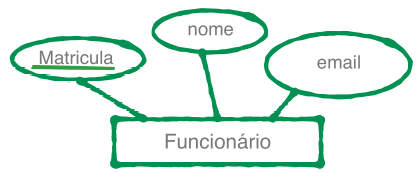
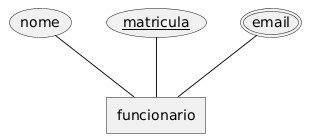
feat: change images

diff --git a/banco-de-dados/anotacoes/02-modelo-entidade-relacionamento.md b/banco-de-dados/anotacoes/02-modelo-entidade-relacionamento.md
@@ -4,26 +4,20 @@
 - Está centrado na **percepção dos usuários** sobre os dados, não
   importando a maneira na qual os dados serão **armazenados**.
 
-![exemplo-mer](img/02-modelo-entidade-relacionamento/exemplo-mer.png)
-
-![exemplo-modelagem](img/02-modelo-entidade-relacionamento/exemplo-modelagem.png)
-
 ## Entidade
+
 - É um **elemento** do mundo real com uma existência própria.
-
+- **Exemplo:** Pessoas, Carros, Casa, ...
 - Cada entidade possui propriedades que a descrevem, chamadas de **atributos**.
-
-Exemplo: Funcionários de uma empresa
-
-```
+- Exemplo: Funcionários da Empresa
+```txt
 Nome = João
 Endereço = Rua A, Casa 123
 Idade = 26
-Telefone = 11 91111-1111
+Fone = 222-2222
 ```
 
 ### Atributos
-
 - **Simples:** Trata-se de um atributo que **não** é divisível.
   - Data de nascimento;
   - CPF;
@@ -31,8 +25,6 @@ Telefone = 11 91111-1111
 - **Composto:** Consiste em vários atributos básicos.
   - Endereço;
   - Logradouro;
-
-![atributo-composto](img/02-modelo-entidade-relacionamento/atributo-composto.png)
 
 ![atributo-simples-composto](img/02-modelo-entidade-relacionamento/atributo-simples-composto.png)
 
@@ -49,14 +41,11 @@ Telefone = 11 91111-1111
   - **Não** é armazenado no SGBD.
 
 - **Valores NULL:** Valor vazio para um atributo.
-  - Ex: Telefone
-- Entidade na forma de instâncias, elementos de um conjunto:
+  - Ex: Telefone Residencial
 
-![elementos-conjunto](img/02-modelo-entidade-relacionamento/elementos-conjunto.png)
-
-- **Atributo Chave:** Identifica cada entidade unicamente.
+- **Atributo Chave:** Identifica cada entidade <u>unicamente</u>.
   - Matrícula, CPF, código, id, ...
-  - É marcado com "um traço embaixo", sublinhado
+  - É marcado com "um traço embaixo", sublinhado.
 
 ![atributo-chave](img/02-modelo-entidade-relacionamento/atributo-chave.png)
 
@@ -105,6 +94,15 @@ Telefone = 11 91111-1111
 
 ![cardinalidade_n-n](img/02-modelo-entidade-relacionamento/cardinalidade_n-n.png)
 
+#### Cardinalidade (Mínima, Máxima)
+![cardinalidade-minima-maxima](img/02-modelo-entidade-relacionamento/cardinalidade-minima-maxima.png)
+
+- **Cardinalidade Mínima:** Substitui a participação. 
+  - 0: Parcial; 
+  - 1: Total.
+- **Cardinalidade Máxima:** Continua como antes.
+  - 1 ou N.
+
 ### Participação
 
 - **Obrigatoriedade** que a entidade pode ter ao participar daquele relacionamento.
@@ -116,3 +114,60 @@ Telefone = 11 91111-1111
   - **Nem todas** as instâncias da entidade precisam estar relacionadas com as instâncias da outra entidade.
 
 ![restricao-participacao](img/02-modelo-entidade-relacionamento/restricao-participacao.png)
+
+### Relacionamento Ternário
+
+![relacionamento-ternario](img/02-modelo-entidade-relacionamento/relacionamento-ternario.png)
+
+## Entidade Fraca
+
+Ver vídeo no apreender3!!!
+
+Não tem um atributo que pode ser considerado chave, único
+
+Chave composta, sua chave + a chave da entidade forte
+
+- (matriculaEmp , nomeDep)
+
+toda entidade fraca tem participação total no relacionamento de identificação com a entidade forte.
+
+Ver outros vídeos no apreender3!!!
+
+## Exemplo
+- Uma Empresa é organizada em departamentos. Cada departamento tem um nome, um número e um empregado que gerencia o departamento. Deve-se saber a data em que um empregado iniciou como gerente de um departamento. Um departamento pode ter diversas localizações.
+
+- Um departamento controla um número de projetos, cada qual com um nome, um número e uma única localização.
+
+- São armazenados o nome do empregado, matrícula, endereço, salário, sexo e data de nascimento. Um empregado está associado a um departamento, mas pode trabalhar em diversos projetos, não necessariamente controlados pelo mesmo departamento. Deve-se saber o número de horas semanais que um empregado trabalha em cada projeto, bem como o supervisor direto de cada empregado.
+
+- Cada empregado pode possuir vários dependentes, devendo-se saber, para cada dependente, o nome, o sexo, a data de nascimento e a sua ligação com o empregado.
+
+
+- Ver vídeo no apreender3!!!
+- relacionamento ganha um atributo
+- Como descobrir a cardinalidade
+  - 1 empregado pode trabalhar em quantos departamento ? 1 , a resposta vai para o outro lado
+  - 1 departamento pode ter quantos funcionários trabalhando nele ? vários ? vai para o outro lado
+  - Sempre escolher uma instância para fazer a analise
+- Todos os empregados são supervisores ?
+
+## Especificação e Generalização
+
+![especificacao-generalizacao-total](img/02-modelo-entidade-relacionamento/especificacao-generalizacao-total.png)
+
+![especificacao-generalizacao-parcial](img/02-modelo-entidade-relacionamento/especificacao-generalizacao-parcial.png)
+
+
+## Tipos de Entidade
+
+
+
+## Notação
+- Peter Chen
+- UML
+
+![exemplo-uml](img/02-modelo-entidade-relacionamento/exemplo-uml.png)
+
+- *Crow’s Foot Notation* - Notação Pé de Galinha
+![notacao-pe-de-galinha](img/02-modelo-entidade-relacionamento/notacao-pe-de-galinha.png)
+
